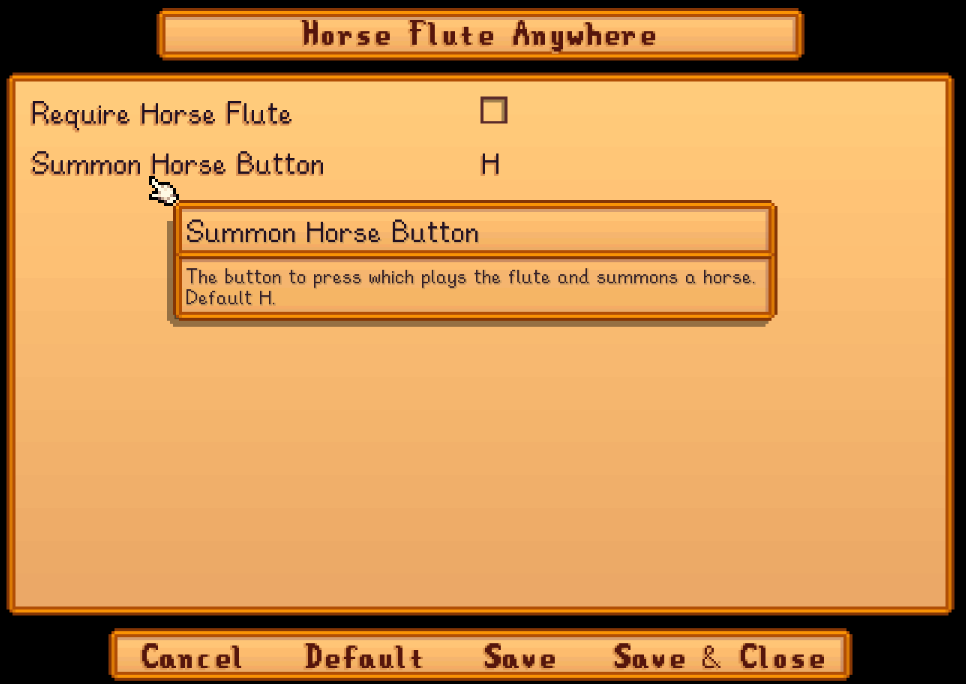
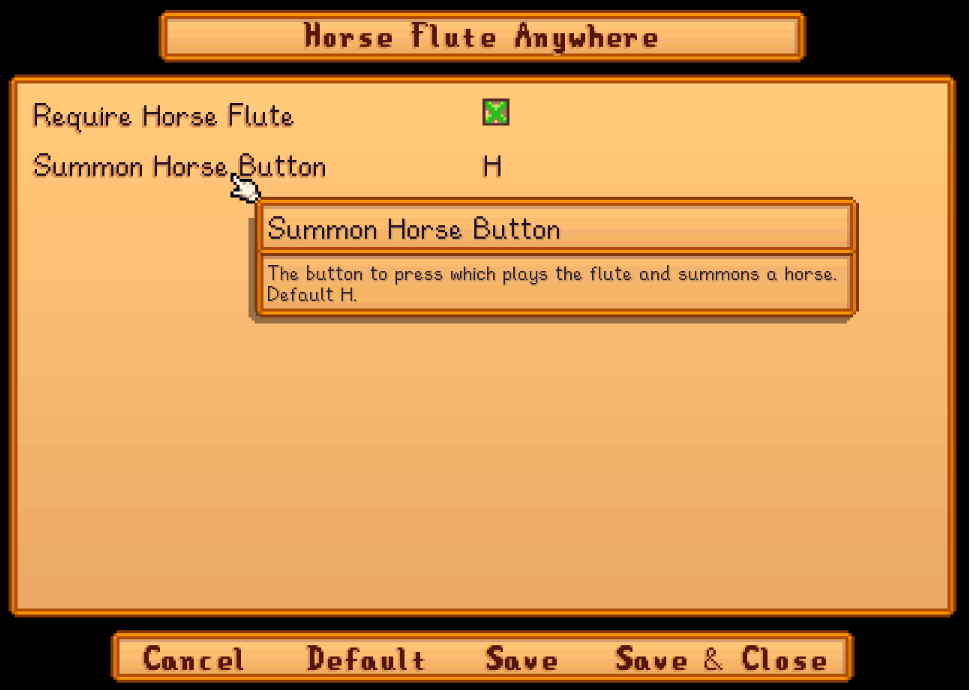
combine Horse Flute Anywhere's 'balanced mode' and 'unlimited mode'

Changed region(s): [[0.0, 0.0, 0.9938, 1.0], [0.4969, 0.2149, 0.528, 0.2456]]

diff --git a/HorseFluteAnywhere/Framework/ModConfig.cs b/HorseFluteAnywhere/Framework/ModConfig.cs
@@ -16,7 +16,7 @@ namespace Pathoschild.Stardew.HorseFluteAnywhere.Framework
         public KeybindList SummonHorseKey { get; set; } = new(SButton.H);
 
         /// <summary>Whether the player must be holding a horse flute to summon the horse.</summary>
-        public bool RequireHorseFlute { get; set; } = false;
+        public bool RequireHorseFlute { get; set; } = true;
 
 
         /*********

diff --git a/HorseFluteAnywhere/docs/release-notes.md b/HorseFluteAnywhere/docs/release-notes.md
@@ -1,6 +1,10 @@
 [← back to readme](README.md)
 
 # Release notes
+## Upcoming release
+* The mod no longer has separate "balanced mode" and "unlimited mode" downloads.  
+  _Balanced mode is now the default. You can use [Generic Mod Config Menu](https://www.nexusmods.com/stardewvalley/mods/5098) to disable "Require Horse Flute" if you used unlimited mode._
+
 ## 1.1.24
 Released 22 May 2024 for SMAPI 4.0.0 or later.
 
